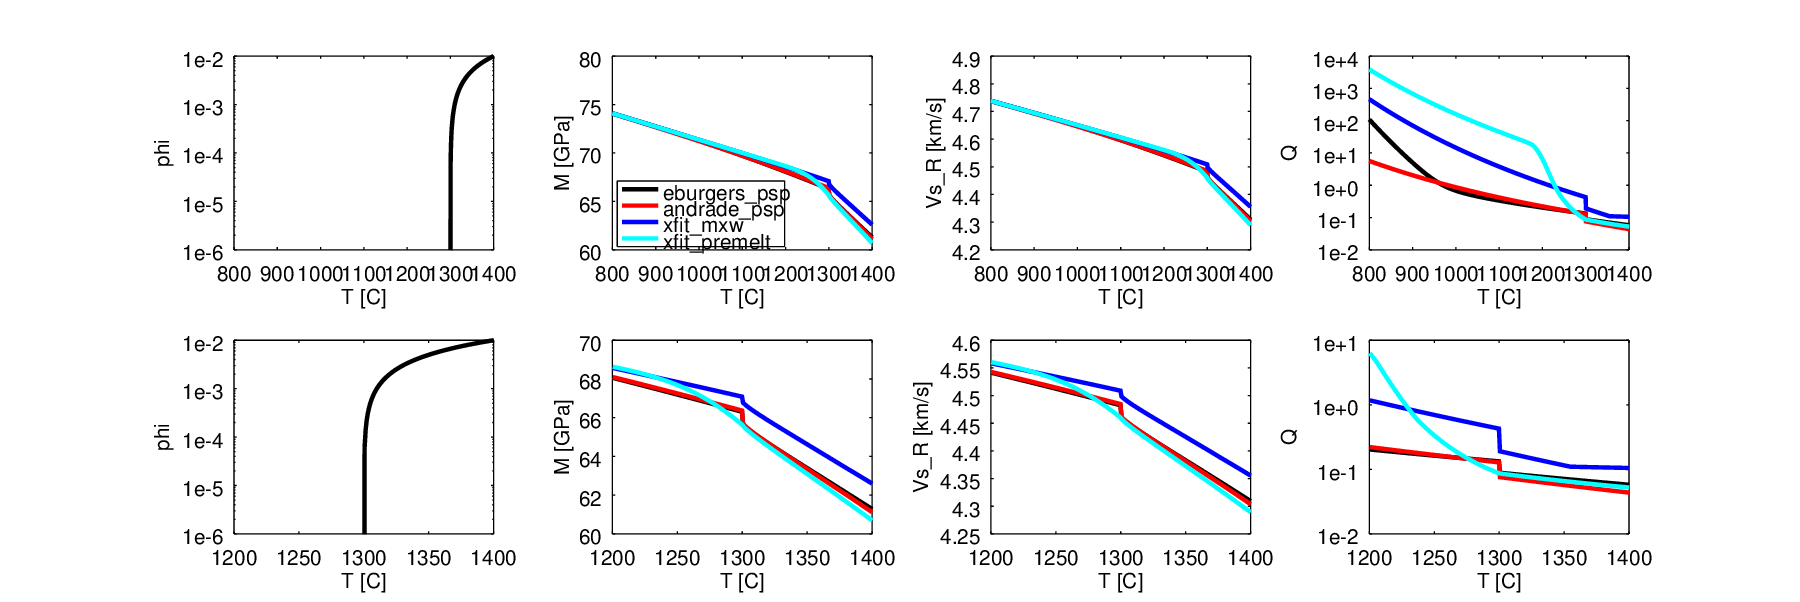
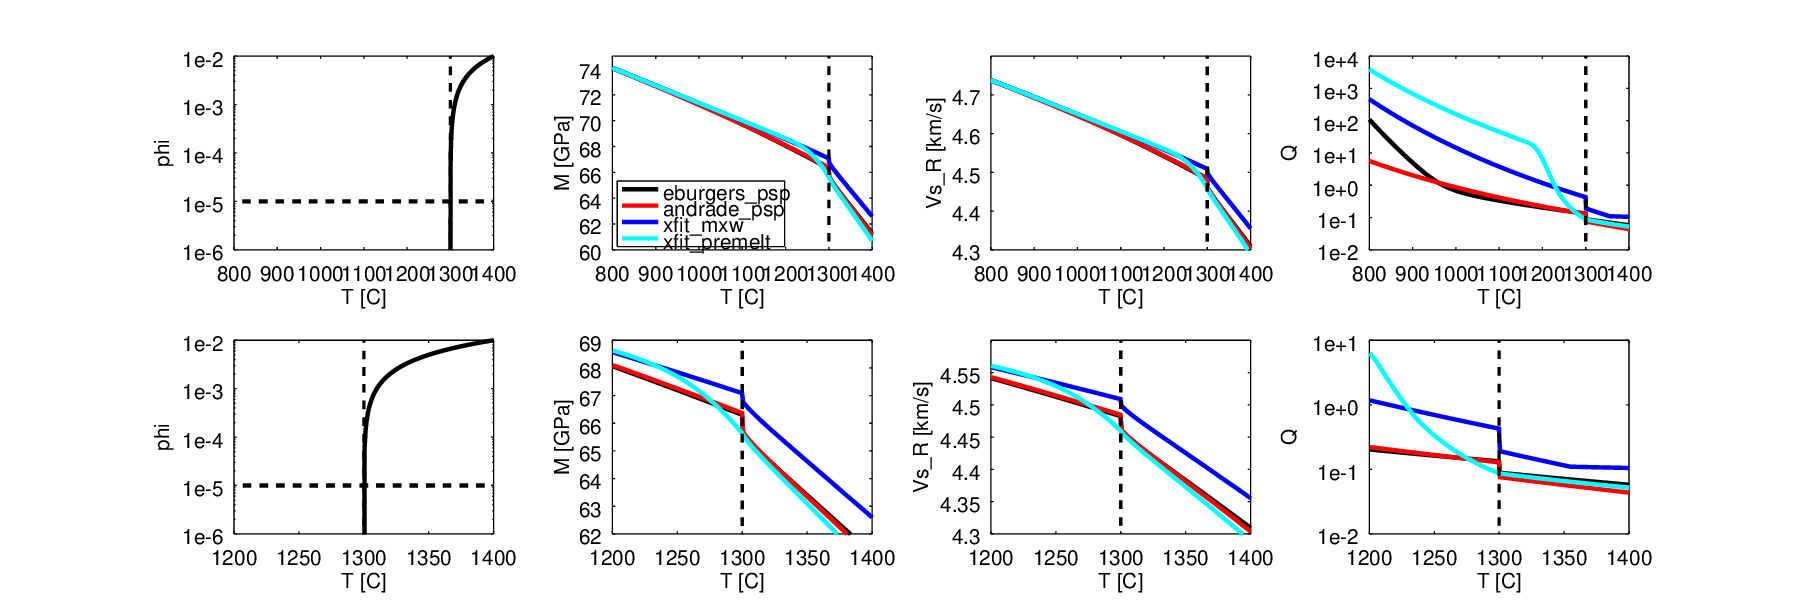
CB_phic: added phi_c and Tsol lines to case2

diff --git a/Projects/vbr_core_examples/CB_011_meltEffects.m b/Projects/vbr_core_examples/CB_011_meltEffects.m
@@ -142,11 +142,12 @@ function case2out =case2()
 
   VBR.in.SV.phi=logspace(-8,-1.5,100);
   VBR = appendFixedSVs(VBR,size(VBR.in.SV.phi));
-  VBR.in.SV.T_K=1200+273*ones(size(VBR.in.SV.phi));
+  T_solidus_C=1300;
+  VBR.in.SV.T_K=T_solidus_C+273*ones(size(VBR.in.SV.phi));
   T_N=1.01;
   VBR.in.SV.Tsolidus_K=VBR.in.SV.T_K/T_N;
   VBR_1 = VBR_spine(VBR);
-
+  phi_c=VBR_1.in.GlobalSettings.phi_c(1);
   VBR.in.GlobalSettings.melt_enhancement=1;
   VBR_2 = VBR_spine(VBR);
   case2out.VBR_1=VBR_1;
@@ -200,7 +201,7 @@ function case2out =case2()
   VBR.in.SV=struct(); % clear it out, size will be changing...
   Tmax=1400; Tmin=800;
   VBR.in.SV.T_K=[linspace(Tmin,999,20),linspace(1000,Tmax,500)]+273;
-  VBR.in.SV.Tsolidus_K=1300+273;
+  VBR.in.SV.Tsolidus_K=T_solidus_C+273;
   VBR.in.SV.phi=1e-4*((VBR.in.SV.T_K-VBR.in.SV.Tsolidus_K));
   VBR.in.SV.phi(VBR.in.SV.phi<0)=1e-16;
   VBR.in.SV.phi(VBR.in.SV.phi>1)=1;
@@ -216,6 +217,12 @@ function case2out =case2()
 
   subplot(2,4,1)
   semilogy(Trange,phi_range,'k','linewidth',2)
+  hold on
+  phiminax=[min(phi_range),max(phi_range)];
+  Tminmax=[min(Trange),max(Trange)];
+  semilogy([T_solidus_C,T_solidus_C],phiminax,'--k','linewidth',1.5)
+  semilogy(Tminmax,[phi_c,phi_c],'--k','linewidth',2)
+
   ylabel('\phi'); xlabel('T [C]');
   xlim([Tmin,Tmax])
   ylim([1e-6,1e-2])
@@ -224,6 +231,11 @@ function case2out =case2()
   Tmin2=1200;
   Tmask=(Trange>=Tmin2);
   semilogy(Trange(Tmask),phi_range(Tmask),'k','linewidth',2)
+  hold on
+  phiminax=[min(phi_range),max(phi_range)];
+  Tminmax=[min(Trange(Tmask)),max(Trange(Tmask))];
+  semilogy([T_solidus_C,T_solidus_C],phiminax,'--k','linewidth',1.5)
+  semilogy(Tminmax,[phi_c,phi_c],'--k','linewidth',2)
   ylabel('\phi'); xlabel('T [C]');
   xlim([Tmin2,Tmax])
   ylim([1e-6,1e-2])
@@ -267,18 +279,32 @@ function case2out =case2()
   end
 
   subplot(2,4,2)
-  box on; xlabel('T [C]'); ylabel('M [GPa]'); legend('location','southwest');
-  xlim([Tmin,Tmax])
+  legend('location','southwest');
+  hold on
+  plot([T_solidus_C,T_solidus_C],[60,75],'--k','linewidth',1.5,'DisplayName','T_{sol}')
+  box on; xlabel('T [C]'); ylabel('M [GPa]');
+  xlim([Tmin,Tmax]); ylim([60,75])
   subplot(2,4,3)
-  box on; xlabel('T [C]'); ylabel('Vs_R [km/s]');xlim([Tmin,Tmax])
+  hold on
+  plot([T_solidus_C,T_solidus_C],[4.2,4.9],'--k','linewidth',1.5,'DisplayName','T_{sol}')
+  box on; xlabel('T [C]'); ylabel('Vs_R [km/s]');xlim([Tmin,Tmax]); ylim([4.3,4.8])
   subplot(2,4,4)
+  hold on
+  semilogy([T_solidus_C,T_solidus_C],[1e-2,1e4],'--k','linewidth',1.5,'DisplayName','T_{sol}')
   box on; xlabel('T [C]'); ylabel('Q');xlim([Tmin,Tmax])
 
+
   subplot(2,4,6)
-  box on; xlabel('T [C]'); ylabel('M [GPa]');xlim([Tmin2,Tmax])
+  hold on
+  plot([T_solidus_C,T_solidus_C],[60,70],'--k','linewidth',1.5,'DisplayName','T_{sol}')
+  box on; xlabel('T [C]'); ylabel('M [GPa]');xlim([Tmin2,Tmax]); ylim([62,69])
   subplot(2,4,7)
-  box on; xlabel('T [C]'); ylabel('Vs_R [km/s]');xlim([Tmin2,Tmax])
+  hold on
+  plot([T_solidus_C,T_solidus_C],[4.3,4.9],'--k','linewidth',1.5,'DisplayName','T_{sol}')
+  box on; xlabel('T [C]'); ylabel('Vs_R [km/s]');xlim([Tmin2,Tmax]); ylim([4.3,4.6])
   subplot(2,4,8)
+  hold on
+  semilogy([T_solidus_C,T_solidus_C],[1e-2,1e1],'--k','linewidth',1.5,'DisplayName','T_{sol}')
   box on; xlabel('T [C]'); ylabel('Q');xlim([Tmin2,Tmax])
   saveas(gcf,'./figures/CB_011_meltEffects_case2_fig2.png')
 

diff --git a/docs/_pages/examples/CB_011_meltEffects.md b/docs/_pages/examples/CB_011_meltEffects.md
@@ -153,11 +153,12 @@ function case2out =case2()
 
   VBR.in.SV.phi=logspace(-8,-1.5,100);
   VBR = appendFixedSVs(VBR,size(VBR.in.SV.phi));
-  VBR.in.SV.T_K=1200+273*ones(size(VBR.in.SV.phi));
+  T_solidus_C=1300;
+  VBR.in.SV.T_K=T_solidus_C+273*ones(size(VBR.in.SV.phi));
   T_N=1.01;
   VBR.in.SV.Tsolidus_K=VBR.in.SV.T_K/T_N;
   VBR_1 = VBR_spine(VBR);
-
+  phi_c=VBR_1.in.GlobalSettings.phi_c(1);
   VBR.in.GlobalSettings.melt_enhancement=1;
   VBR_2 = VBR_spine(VBR);
   case2out.VBR_1=VBR_1;
@@ -211,7 +212,7 @@ function case2out =case2()
   VBR.in.SV=struct(); % clear it out, size will be changing...
   Tmax=1400; Tmin=800;
   VBR.in.SV.T_K=[linspace(Tmin,999,20),linspace(1000,Tmax,500)]+273;
-  VBR.in.SV.Tsolidus_K=1300+273;
+  VBR.in.SV.Tsolidus_K=T_solidus_C+273;
   VBR.in.SV.phi=1e-4*((VBR.in.SV.T_K-VBR.in.SV.Tsolidus_K));
   VBR.in.SV.phi(VBR.in.SV.phi<0)=1e-16;
   VBR.in.SV.phi(VBR.in.SV.phi>1)=1;
@@ -227,6 +228,12 @@ function case2out =case2()
 
   subplot(2,4,1)
   semilogy(Trange,phi_range,'k','linewidth',2)
+  hold on
+  phiminax=[min(phi_range),max(phi_range)];
+  Tminmax=[min(Trange),max(Trange)];
+  semilogy([T_solidus_C,T_solidus_C],phiminax,'--k','linewidth',1.5)
+  semilogy(Tminmax,[phi_c,phi_c],'--k','linewidth',2)
+
   ylabel('\phi'); xlabel('T [C]');
   xlim([Tmin,Tmax])
   ylim([1e-6,1e-2])
@@ -235,6 +242,11 @@ function case2out =case2()
   Tmin2=1200;
   Tmask=(Trange>=Tmin2);
   semilogy(Trange(Tmask),phi_range(Tmask),'k','linewidth',2)
+  hold on
+  phiminax=[min(phi_range),max(phi_range)];
+  Tminmax=[min(Trange(Tmask)),max(Trange(Tmask))];
+  semilogy([T_solidus_C,T_solidus_C],phiminax,'--k','linewidth',1.5)
+  semilogy(Tminmax,[phi_c,phi_c],'--k','linewidth',2)
   ylabel('\phi'); xlabel('T [C]');
   xlim([Tmin2,Tmax])
   ylim([1e-6,1e-2])
@@ -278,18 +290,32 @@ function case2out =case2()
   end
 
   subplot(2,4,2)
-  box on; xlabel('T [C]'); ylabel('M [GPa]'); legend('location','southwest');
-  xlim([Tmin,Tmax])
+  legend('location','southwest');
+  hold on
+  plot([T_solidus_C,T_solidus_C],[60,75],'--k','linewidth',1.5,'DisplayName','T_{sol}')
+  box on; xlabel('T [C]'); ylabel('M [GPa]');
+  xlim([Tmin,Tmax]); ylim([60,75])
   subplot(2,4,3)
-  box on; xlabel('T [C]'); ylabel('Vs_R [km/s]');xlim([Tmin,Tmax])
+  hold on
+  plot([T_solidus_C,T_solidus_C],[4.2,4.9],'--k','linewidth',1.5,'DisplayName','T_{sol}')
+  box on; xlabel('T [C]'); ylabel('Vs_R [km/s]');xlim([Tmin,Tmax]); ylim([4.3,4.8])
   subplot(2,4,4)
+  hold on
+  semilogy([T_solidus_C,T_solidus_C],[1e-2,1e4],'--k','linewidth',1.5,'DisplayName','T_{sol}')
   box on; xlabel('T [C]'); ylabel('Q');xlim([Tmin,Tmax])
 
+
   subplot(2,4,6)
-  box on; xlabel('T [C]'); ylabel('M [GPa]');xlim([Tmin2,Tmax])
+  hold on
+  plot([T_solidus_C,T_solidus_C],[60,70],'--k','linewidth',1.5,'DisplayName','T_{sol}')
+  box on; xlabel('T [C]'); ylabel('M [GPa]');xlim([Tmin2,Tmax]); ylim([62,69])
   subplot(2,4,7)
-  box on; xlabel('T [C]'); ylabel('Vs_R [km/s]');xlim([Tmin2,Tmax])
+  hold on
+  plot([T_solidus_C,T_solidus_C],[4.3,4.9],'--k','linewidth',1.5,'DisplayName','T_{sol}')
+  box on; xlabel('T [C]'); ylabel('Vs_R [km/s]');xlim([Tmin2,Tmax]); ylim([4.3,4.6])
   subplot(2,4,8)
+  hold on
+  semilogy([T_solidus_C,T_solidus_C],[1e-2,1e1],'--k','linewidth',1.5,'DisplayName','T_{sol}')
   box on; xlabel('T [C]'); ylabel('Q');xlim([Tmin2,Tmax])
   saveas(gcf,'./figures/CB_011_meltEffects_case2_fig2.png')
 
